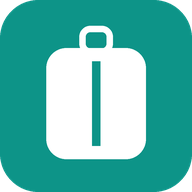
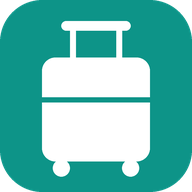
feat: 应用图标换成拉杆箱
重新生成 192 / 512 / maskable / apple-touch / favicon 一整套，
favicon 与 apple-touch-icon 指向各自尺寸的文件。

diff --git a/index.html b/index.html
@@ -4,12 +4,13 @@
 <meta charset="UTF-8">
 <meta name="viewport" content="width=device-width, initial-scale=1, viewport-fit=cover">
 <meta name="theme-color" content="#F4F7F5">
-<meta name="app-version" content="tp-v48">
+<meta name="app-version" content="tp-v49">
 <meta name="description" content="手机端出游打包清单：必带/选带物品池、出行清单清点、模版复用，数据私有存储。">
 <title>行李清单</title>
 <link rel="manifest" href="manifest.json">
-<link rel="icon" href="icons/icon-192.png">
-<link rel="apple-touch-icon" href="icons/icon-192.png">
+<link rel="icon" type="image/png" sizes="32x32" href="icons/favicon-32.png">
+<link rel="icon" type="image/png" sizes="192x192" href="icons/icon-192.png">
+<link rel="apple-touch-icon" href="icons/apple-touch-icon.png">
 <link rel="stylesheet" href="styles.css">
 </head>
 <body>

diff --git a/sw.js b/sw.js
@@ -3,7 +3,7 @@
    否则手机端会一直读旧缓存。
    另外 index.html 里 <meta name="app-version"> 要一起改成同一个值，
    设置页底部会显示它，用来确认手机拿到的是哪个版本。 */
-const VER = 'tp-v48';
+const VER = 'tp-v49';
 
 const SHELL = [
   './',

diff --git a/make_icons.py b/make_icons.py
@@ -1,125 +1,23 @@
-"""生成几个候选图标，供挑选。"""
+"""生成应用图标：拉杆箱（方案 D）。
+
+用法：
+    python make_icons.py
+
+输出到 icons/，覆盖 manifest.json 与 index.html 引用的那几个文件。
+"""
 from PIL import Image, ImageDraw
 import os
 
-OUT = 'icon-options'
+OUT = 'icons'
 os.makedirs(OUT, exist_ok=True)
 
-S = 4          # 超采样倍数，缩小后边缘才顺滑
-SIZE = 512
-N = SIZE * S   # 实际绘制尺寸
-
-BG = (13, 148, 136)     # --accent #0D9488
+S = 4                      # 超采样倍数，缩小后边缘才顺滑
+BG = (13, 148, 136)        # --accent #0D9488
 FG = (255, 255, 255)
-INK = (10, 92, 85)      # 深一点的青，用于白底上的细节
 
 
-def canvas():
-    img = Image.new('RGBA', (N, N), (0, 0, 0, 0))
-    d = ImageDraw.Draw(img)
-    # 圆角方形底
-    d.rounded_rectangle([0, 0, N - 1, N - 1], radius=int(N * 0.22), fill=BG + (255,))
-    return img, d
-
-
-def finish(img, name):
-    img = img.resize((SIZE, SIZE), Image.LANCZOS)
-    img.save(os.path.join(OUT, name + '.png'))
-    print(name)
-
-
-def check(d, x0, y0, x1, y1, w, color):
-    """画一个勾，(x0,y0) 左上角起笔，(x1,y1) 右下角收笔"""
-    pts = [
-        (x0, y0 + (y1 - y0) * 0.52),
-        (x0 + (x1 - x0) * 0.34, y1),
-        (x1, y0),
-    ]
-    d.line(pts, fill=color, width=w, joint='curve')
-    # 端点圆头
-    for p in (pts[0], pts[2]):
-        d.ellipse([p[0] - w / 2, p[1] - w / 2, p[0] + w / 2, p[1] + w / 2], fill=color)
-
-
-def icon_suitcase_check():
-    """A 行李箱 + 勾"""
-    img, d = canvas()
-    cx = N // 2
-    # 提手：描边的圆环，不要填成方块
-    hw, hh = int(N * 0.14), int(N * 0.12)
-    top = int(N * 0.24)
-    d.rounded_rectangle([cx - hw, top - hh, cx + hw, top + int(N * 0.03)],
-                        radius=int(N * 0.045), outline=FG, width=int(N * 0.05))
-    # 箱体
-    bx0, by0 = int(N * 0.16), top
-    bx1, by1 = int(N * 0.84), int(N * 0.80)
-    d.rounded_rectangle([bx0, by0, bx1, by1], radius=int(N * 0.08), fill=FG)
-    # 捆带
-    my = int(N * 0.38)
-    d.line([(bx0, my), (bx1, my)], fill=BG, width=int(N * 0.04))
-    # 勾，放在捆带下方的空白区
-    check(d, int(N * 0.32), int(N * 0.48), int(N * 0.68), int(N * 0.70), int(N * 0.095), BG)
-    finish(img, 'a-suitcase-check')
-
-
-def icon_checklist():
-    """B 清单表"""
-    img, d = canvas()
-    bx0, by0 = int(N * 0.22), int(N * 0.22)
-    bx1, by1 = int(N * 0.78), int(N * 0.84)
-    d.rounded_rectangle([bx0, by0, bx1, by1], radius=int(N * 0.065), fill=FG)
-    # 夹子：窄一些，贴在板子上沿
-    cw, ch = int(N * 0.15), int(N * 0.085)
-    d.rounded_rectangle([N // 2 - cw, by0 - int(N * 0.045),
-                         N // 2 + cw, by0 + int(N * 0.075)],
-                        radius=int(N * 0.03), fill=BG)
-    rows_y = [int(N * 0.42), int(N * 0.58), int(N * 0.74)]
-    box_w = int(N * 0.085)
-    for i, y in enumerate(rows_y):
-        bx = int(N * 0.32)
-        on = i < 2
-        d.rounded_rectangle([bx - box_w, y - box_w, bx + box_w, y + box_w],
-                            radius=int(N * 0.02),
-                            outline=BG if on else (186, 206, 202),
-                            width=int(N * 0.026))
-        if on:
-            check(d, bx - box_w * 0.5, y - box_w * 0.1, bx + box_w * 0.55, y + box_w * 0.6,
-                  int(N * 0.036), BG)
-        # 文字行，向右留出更多空隙
-        lx = bx + box_w + int(N * 0.075)
-        lw = (int(N * 0.22) if on else int(N * 0.30))
-        d.rounded_rectangle([lx, y - int(N * 0.022), lx + lw, y + int(N * 0.022)],
-                            radius=int(N * 0.022), fill=(176, 200, 195) if on else (198, 218, 214))
-    finish(img, 'b-checklist')
-
-
-def icon_luggage_tag():
-    """C 行李吊牌（呼应应用里的吊牌小标）"""
-    img, d = canvas()
-    bx0, by0 = int(N * 0.26), int(N * 0.26)
-    bx1, by1 = int(N * 0.74), int(N * 0.84)
-    d.rounded_rectangle([bx0, by0, bx1, by1], radius=int(N * 0.11), fill=FG)
-    # 顶部一个小圆环（挂绳扣），比画线干净
-    hx, hy = N // 2, int(N * 0.26)
-    ro, ri = int(N * 0.075), int(N * 0.036)
-    d.ellipse([hx - ro, hy - ro, hx + ro, hy + ro], fill=FG)
-    d.ellipse([hx - ri, hy - ri, hx + ri, hy + ri], fill=BG)
-    # 牌面：小行李箱
-    sx0, sy0 = int(N * 0.35), int(N * 0.46)
-    sx1, sy1 = int(N * 0.65), int(N * 0.72)
-    d.rounded_rectangle([sx0, sy0, sx1, sy1], radius=int(N * 0.035), fill=BG)
-    # 箱体提手
-    shw = int(N * 0.055)
-    d.rounded_rectangle([N // 2 - shw, sy0 - int(N * 0.035), N // 2 + shw, sy0 + int(N * 0.01)],
-                        radius=int(N * 0.015), outline=BG, width=int(N * 0.022))
-    # 箱体上的勾
-    check(d, int(N * 0.40), int(N * 0.56), int(N * 0.60), int(N * 0.66), int(N * 0.045), FG)
-    finish(img, 'c-luggage-tag')
-
-
-def icon_roller():
-    """D 拉杆箱"""
-    img, d = canvas()
+def draw_icon(d, N):
+    """在 N×N 的画布上画拉杆箱（背景由调用方决定画不画）"""
     # 拉杆
     lw = int(N * 0.032)
     for x in (int(N * 0.38), int(N * 0.62)):
@@ -131,102 +29,42 @@ def icon_roller():
     bx1, by1 = int(N * 0.78), int(N * 0.84)
     d.rounded_rectangle([bx0, by0, bx1, by1], radius=int(N * 0.07), fill=FG)
     # 前袋分隔线
-    py = int(N * 0.52)
-    d.line([(bx0, py), (bx1, py)], fill=BG, width=int(N * 0.028))
+    d.line([(bx0, int(N * 0.52)), (bx1, int(N * 0.52))], fill=BG, width=int(N * 0.028))
     # 轮子
     for x in (int(N * 0.32), int(N * 0.68)):
         r = int(N * 0.045)
         d.ellipse([x - r, by1 - int(N * 0.01), x + r, by1 + int(N * 0.08)], fill=FG)
-    finish(img, 'd-roller')
 
 
-def icon_stacked():
-    """E 叠放的行李"""
-    img, d = canvas()
-    # 下层大箱
-    bx0, by0 = int(N * 0.14), int(N * 0.46)
-    bx1, by1 = int(N * 0.86), int(N * 0.82)
-    d.rounded_rectangle([bx0, by0, bx1, by1], radius=int(N * 0.06), fill=FG)
-    # 下层捆带
-    sx = int(N * 0.5)
-    d.line([(sx, by0), (sx, by1)], fill=BG, width=int(N * 0.05))
-    # 上层小箱
-    tx0, ty0 = int(N * 0.26), int(N * 0.22)
-    tx1, ty1 = int(N * 0.74), int(N * 0.44)
-    d.rounded_rectangle([tx0, ty0, tx1, ty1], radius=int(N * 0.05), fill=FG)
-    # 上层提手
-    hw = int(N * 0.10)
-    d.rounded_rectangle([sx - hw, ty0 - int(N * 0.07), sx + hw, ty0 + int(N * 0.02)],
-                        radius=int(N * 0.025), outline=FG, width=int(N * 0.04))
-    # 上层捆带
-    d.line([(sx, ty0), (sx, ty1)], fill=BG, width=int(N * 0.04))
-    finish(img, 'e-stacked')
+def render(size, maskable=False, rounded=True):
+    n = size * S
+    img = Image.new('RGBA', (n, n), (0, 0, 0, 0))
+    d = ImageDraw.Draw(img)
+    if maskable:
+        # maskable 要满幅方形底，系统自己切成圆/圆角方；
+        # 图形缩到中央安全区，避免被切掉
+        d.rectangle([0, 0, n - 1, n - 1], fill=BG + (255,))
+        inner = Image.new('RGBA', (n, n), (0, 0, 0, 0))
+        draw_icon(ImageDraw.Draw(inner), int(n * 0.78))
+        img.alpha_composite(inner, (int(n * 0.11), int(n * 0.11)))
+    else:
+        if rounded:
+            d.rounded_rectangle([0, 0, n - 1, n - 1], radius=int(n * 0.22), fill=BG + (255,))
+        else:
+            d.rectangle([0, 0, n - 1, n - 1], fill=BG + (255,))
+        draw_icon(d, n)
+    return img.resize((size, size), Image.LANCZOS)
 
 
-def icon_parcel_check():
-    """F 打包好的包裹 + 勾"""
-    img, d = canvas()
-    bx0, by0 = int(N * 0.18), int(N * 0.24)
-    bx1, by1 = int(N * 0.82), int(N * 0.82)
-    d.rounded_rectangle([bx0, by0, bx1, by1], radius=int(N * 0.07), fill=FG)
-    # 顶盖：浅色，和箱体区分开
-    lid = int(N * 0.42)
-    d.rounded_rectangle([bx0, by0, bx1, lid + int(N * 0.03)], radius=int(N * 0.07), fill=(214, 240, 237))
-    d.rounded_rectangle([bx0, lid - int(N * 0.02), bx1, lid + int(N * 0.04)], radius=0, fill=FG)
-    d.line([(bx0, lid), (bx1, lid)], fill=BG, width=int(N * 0.032))
-    # 竖向胶带只画在顶盖上，避开下方的勾
-    sx = N // 2
-    d.line([(sx, by0), (sx, lid)], fill=BG, width=int(N * 0.055))
-    # 勾，放在下半区居中
-    check(d, int(N * 0.36), int(N * 0.52), int(N * 0.64), int(N * 0.70), int(N * 0.08), BG)
-    finish(img, 'f-parcel-check')
-
-
-def icon_pin_suitcase():
-    """G 行李箱 + 定位（旅行感更强）"""
-    img, d = canvas()
-    # 箱体整体缩小并左移，给定位针让出右上角
-    bx0, by0 = int(N * 0.14), int(N * 0.34)
-    bx1, by1 = int(N * 0.64), int(N * 0.80)
-    d.rounded_rectangle([bx0, by0, bx1, by1], radius=int(N * 0.07), fill=FG)
-    # 提手
-    hw = int(N * 0.10)
-    d.rounded_rectangle([int(N * 0.32) - hw, int(N * 0.26), int(N * 0.32) + hw, int(N * 0.36)],
-                        radius=int(N * 0.028), outline=FG, width=int(N * 0.04))
-    # 捆带
-    d.line([(int(N * 0.42), by0), (int(N * 0.42), by1)], fill=BG, width=int(N * 0.032))
-    # 定位针：独立在右上角，不与箱体重叠
-    px, py, pr = int(N * 0.74), int(N * 0.28), int(N * 0.15)
-    d.ellipse([px - pr, py - pr, px + pr, py + pr], fill=FG)
-    d.polygon([(px - pr * 0.70, py + pr * 0.45), (px + pr * 0.70, py + pr * 0.45),
-               (px, py + pr * 1.75)], fill=FG)
-    hr = int(N * 0.052)
-    d.ellipse([px - hr, py - hr, px + hr, py + hr], fill=BG)
-    finish(img, 'g-pin-suitcase')
-
-
-def icon_tag_check():
-    """H 吊牌 + 勾（更简练的版本）"""
-    img, d = canvas()
-    # 牌身：上窄下宽的梯形感，用圆角矩形近似
-    bx0, by0 = int(N * 0.30), int(N * 0.20)
-    bx1, by1 = int(N * 0.70), int(N * 0.82)
-    d.rounded_rectangle([bx0, by0, bx1, by1], radius=int(N * 0.12), fill=FG)
-    # 打孔
-    hx, hy, hr = N // 2, int(N * 0.31), int(N * 0.042)
-    d.ellipse([hx - hr, hy - hr, hx + hr, hy + hr], fill=BG)
-    # 勾
-    check(d, int(N * 0.38), int(N * 0.48), int(N * 0.62), int(N * 0.66), int(N * 0.07), BG)
-    finish(img, 'h-tag-check')
+def save(img, name):
+    img.save(os.path.join(OUT, name))
+    print('%-24s %s' % (name, img.size))
 
 
 if __name__ == '__main__':
-    icon_suitcase_check()
-    icon_checklist()
-    icon_luggage_tag()
-    icon_roller()
-    icon_stacked()
-    icon_parcel_check()
-    icon_pin_suitcase()
-    icon_tag_check()
+    save(render(192), 'icon-192.png')
+    save(render(512), 'icon-512.png')
+    save(render(512, maskable=True), 'icon-maskable-512.png')
+    save(render(180, rounded=False), 'apple-touch-icon.png')
+    save(render(32, rounded=False), 'favicon-32.png')
     print('done ->', OUT)
